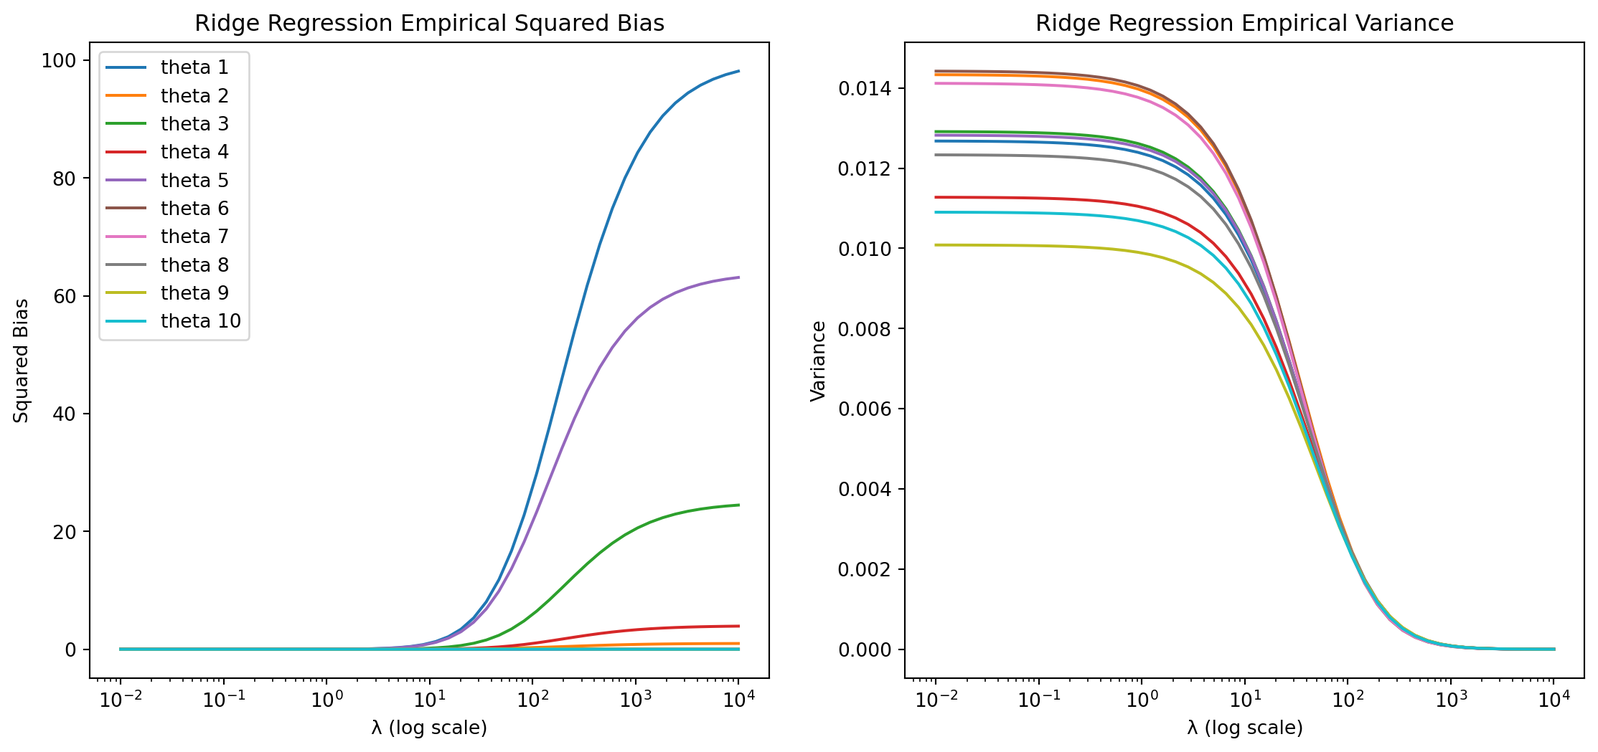
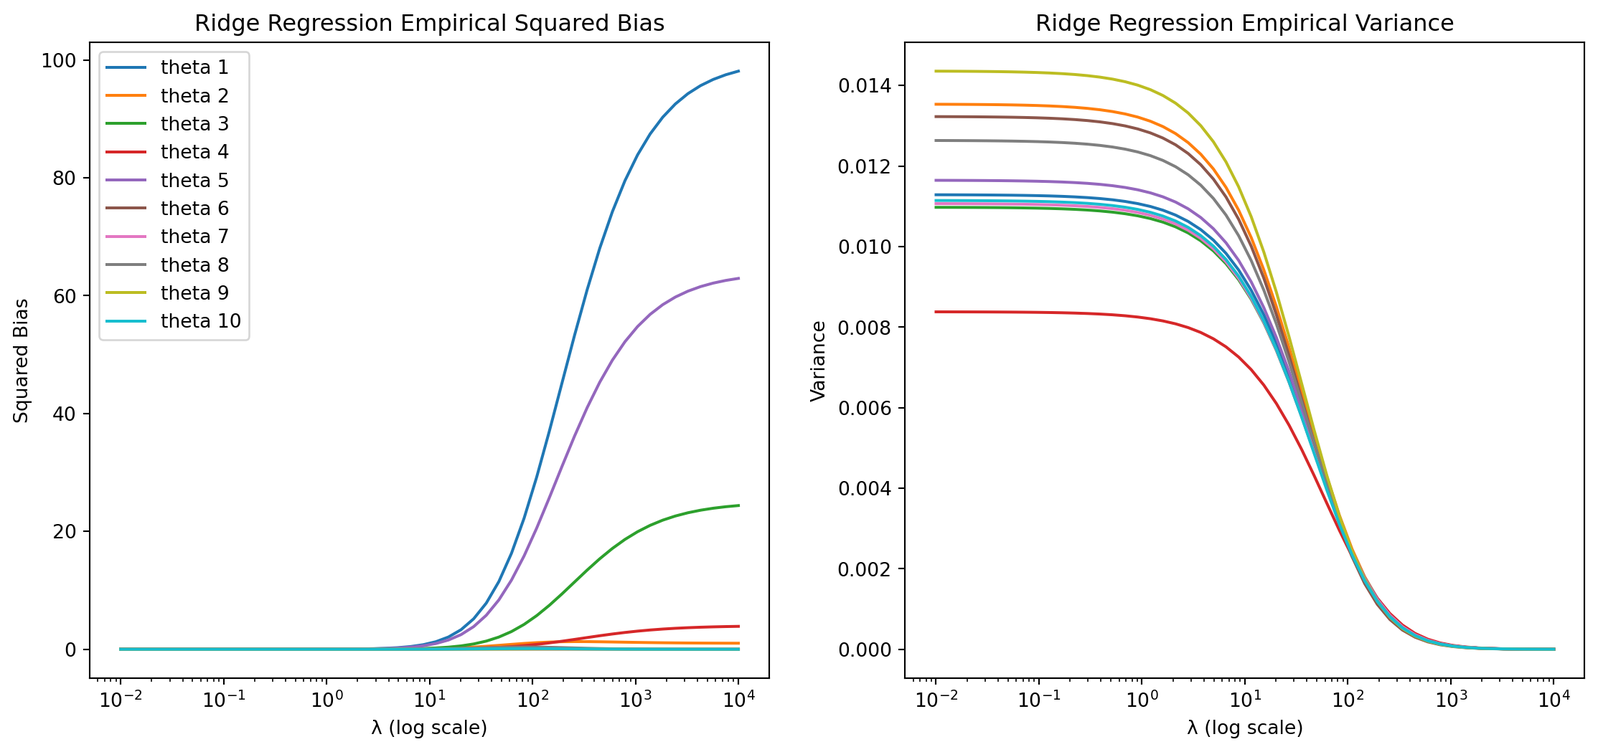
add tp1 of statiscal learning - Regression ridge - Regression lasso

diff --git a/docs/3A/Apprentisage-stat/Tp1.html b/docs/3A/Apprentisage-stat/Tp1.html
@@ -247,7 +247,7 @@ window.Quarto = {
 <p>where <span class="math inline">\(\sigma^2\)</span> is the variance of the noise in the data.</p>
 <p><u>Hint to prove the bias formula</u> : factorize by <span class="math inline">\(\lambda ( X^TX + \lambda I_d)^{-1}\)</span></p>
 <p>In this activity, we will numerically check the formula for the bias and the variance by generating random data and calculating the squared bias of the sample mean. Let’s start by create a function to generate the data with a noise <span class="math inline">\(\varepsilon \sim \mathcal{N}(0,\sigma^2)\)</span>.</p>
-<div id="b261e646" class="cell" data-execution_count="1">
+<div id="29f75d81" class="cell" data-execution_count="1">
 <div class="sourceCode cell-code" id="cb1"><pre class="sourceCode python code-with-copy"><code class="sourceCode python"><span id="cb1-1"><a href="#cb1-1" aria-hidden="true" tabindex="-1"></a><span class="co">#Q1 : Function that generates data from a linear model</span></span>
 <span id="cb1-2"><a href="#cb1-2" aria-hidden="true" tabindex="-1"></a><span class="im">import</span> numpy <span class="im">as</span> np</span>
 <span id="cb1-3"><a href="#cb1-3" aria-hidden="true" tabindex="-1"></a></span>
@@ -258,7 +258,7 @@ window.Quarto = {
 <span id="cb1-8"><a href="#cb1-8" aria-hidden="true" tabindex="-1"></a>    <span class="cf">return</span> y</span></code><button title="Copy to Clipboard" class="code-copy-button"><i class="bi"></i></button></pre></div>
 </div>
 <p>Our goal is now to illustrate the squared bias of each coefficient as a function of <span class="math inline">\(\lambda\)</span> when it varies between 10² and 10⁴ (in the log-domain). We will then generate a dataset with 100 samples and 10 features and calculate the squared bias of the coefficients and the variance for each value of <span class="math inline">\(\lambda\)</span>. The features will be generated from a normal distribution (not mandatory) and the true coefficients are fixed. We voluntarily put to 0 some coefficients to see the effect of the regularization.</p>
-<div id="515ad785" class="cell" data-execution_count="2">
+<div id="314eb7ba" class="cell" data-execution_count="2">
 <div class="sourceCode cell-code" id="cb2"><pre class="sourceCode python code-with-copy"><code class="sourceCode python"><span id="cb2-1"><a href="#cb2-1" aria-hidden="true" tabindex="-1"></a><span class="im">from</span> sklearn.linear_model <span class="im">import</span> Ridge</span>
 <span id="cb2-2"><a href="#cb2-2" aria-hidden="true" tabindex="-1"></a><span class="im">import</span> matplotlib.pyplot <span class="im">as</span> plt</span>
 <span id="cb2-3"><a href="#cb2-3" aria-hidden="true" tabindex="-1"></a></span>
@@ -269,7 +269,7 @@ window.Quarto = {
 <span id="cb2-8"><a href="#cb2-8" aria-hidden="true" tabindex="-1"></a>X <span class="op">=</span> np.random.normal(loc<span class="op">=</span><span class="dv">0</span>, scale<span class="op">=</span><span class="dv">1</span>, size<span class="op">=</span>(n, d)) <span class="co">#features</span></span></code><button title="Copy to Clipboard" class="code-copy-button"><i class="bi"></i></button></pre></div>
 </div>
 <p>To compute numerically the bias and the variance of the ridge regression, we will generation 200 datasets. We will then, for each <span class="math inline">\(\lambda\)</span>, store the mean of each coefficients (in order to compute the numerical bias) and the standard deviation (to compute the numerical variance).</p>
-<div id="d8bed332" class="cell" data-execution_count="3">
+<div id="264b493b" class="cell" data-execution_count="3">
 <div class="sourceCode cell-code" id="cb3"><pre class="sourceCode python code-with-copy"><code class="sourceCode python"><span id="cb3-1"><a href="#cb3-1" aria-hidden="true" tabindex="-1"></a>n_sim<span class="op">=</span><span class="dv">1000</span></span>
 <span id="cb3-2"><a href="#cb3-2" aria-hidden="true" tabindex="-1"></a>estimated_theta <span class="op">=</span> np.zeros((n_sim,d)) <span class="co">#store the estimated theta for each simulation</span></span>
 <span id="cb3-3"><a href="#cb3-3" aria-hidden="true" tabindex="-1"></a>bias_squared <span class="op">=</span> np.zeros((<span class="bu">len</span>(lambda_grid),d)) <span class="co">#store the squared bias for each lambda</span></span>
@@ -284,8 +284,8 @@ window.Quarto = {
 <span id="cb3-12"><a href="#cb3-12" aria-hidden="true" tabindex="-1"></a>    bias_squared[idx,:]<span class="op">=</span>(np.mean(estimated_theta,axis<span class="op">=</span><span class="dv">0</span>)<span class="op">-</span>theta)<span class="op">**</span><span class="dv">2</span></span>
 <span id="cb3-13"><a href="#cb3-13" aria-hidden="true" tabindex="-1"></a>    variance[idx,:] <span class="op">=</span> np.std(estimated_theta,axis<span class="op">=</span><span class="dv">0</span>)<span class="op">**</span><span class="dv">2</span></span></code><button title="Copy to Clipboard" class="code-copy-button"><i class="bi"></i></button></pre></div>
 </div>
-<div id="bbc4e0bb" class="cell" data-execution_count="4">
-<div class="sourceCode cell-code" id="cb4"><pre class="sourceCode python code-with-copy"><code class="sourceCode python"><span id="cb4-1"><a href="#cb4-1" aria-hidden="true" tabindex="-1"></a>fig, axes <span class="op">=</span> plt.subplots(<span class="dv">1</span>, <span class="dv">2</span>, figsize<span class="op">=</span>(<span class="dv">14</span>, <span class="dv">6</span>))</span>
+<div id="a092b765" class="cell" data-execution_count="4">
+<div class="sourceCode cell-code" id="cb4"><pre class="sourceCode python code-with-copy"><code class="sourceCode python"><span id="cb4-1"><a href="#cb4-1" aria-hidden="true" tabindex="-1"></a>fig, axes <span class="op">=</span> plt.subplots(<span class="dv">1</span>, <span class="dv">2</span>, figsize<span class="op">=</span>(<span class="dv">8</span>, <span class="dv">4</span>))</span>
 <span id="cb4-2"><a href="#cb4-2" aria-hidden="true" tabindex="-1"></a></span>
 <span id="cb4-3"><a href="#cb4-3" aria-hidden="true" tabindex="-1"></a><span class="cf">for</span> i <span class="kw">in</span> <span class="bu">range</span>(d):</span>
 <span id="cb4-4"><a href="#cb4-4" aria-hidden="true" tabindex="-1"></a>    axes[<span class="dv">0</span>].plot(lambda_grid, bias_squared[:, i], label<span class="op">=</span><span class="ss">f'theta </span><span class="sc">{</span>i<span class="op">+</span><span class="dv">1</span><span class="sc">}</span><span class="ss">'</span>)</span>
@@ -309,12 +309,12 @@ window.Quarto = {
 <div class="cell-output cell-output-display">
 <div>
 <figure class="figure">
-<p><img src="Tp1_files/figure-html/cell-5-output-1.png" width="1334" height="564" class="figure-img"></p>
+<p><img src="Tp1_files/figure-html/cell-5-output-1.png" width="758" height="372" class="figure-img"></p>
 </figure>
 </div>
 </div>
 </div>
-<div id="9387aa71" class="cell" data-execution_count="5">
+<div id="f391d882" class="cell" data-execution_count="5">
 <div class="sourceCode cell-code" id="cb5"><pre class="sourceCode python code-with-copy"><code class="sourceCode python"><span id="cb5-1"><a href="#cb5-1" aria-hidden="true" tabindex="-1"></a><span class="co">#Plot squared theorical bias : −λ(X^T X + λId) (−1) θ</span></span>
 <span id="cb5-2"><a href="#cb5-2" aria-hidden="true" tabindex="-1"></a>bias_theoretical <span class="op">=</span> np.zeros((<span class="bu">len</span>(lambda_grid), d))</span>
 <span id="cb5-3"><a href="#cb5-3" aria-hidden="true" tabindex="-1"></a>variance_theorical <span class="op">=</span> np.zeros((<span class="bu">len</span>(lambda_grid), d))</span>
@@ -364,7 +364,7 @@ window.Quarto = {
 <p><span class="math display">\[
 \theta ^* = argmin_{\theta} \left\{ || Y - X \theta||_2 + \lambda ||\theta||_1 \right\}
 \]</span></p>
-<div id="fc09344b" class="cell" data-execution_count="6">
+<div id="32018a0d" class="cell" data-execution_count="6">
 <div class="sourceCode cell-code" id="cb7"><pre class="sourceCode python code-with-copy"><code class="sourceCode python"><span id="cb7-1"><a href="#cb7-1" aria-hidden="true" tabindex="-1"></a><span class="im">from</span> sklearn.linear_model <span class="im">import</span> Lasso</span>
 <span id="cb7-2"><a href="#cb7-2" aria-hidden="true" tabindex="-1"></a></span>
 <span id="cb7-3"><a href="#cb7-3" aria-hidden="true" tabindex="-1"></a>lasso_bias_squared <span class="op">=</span> np.zeros((<span class="bu">len</span>(lambda_grid), d))</span>
@@ -380,8 +380,8 @@ window.Quarto = {
 <span id="cb7-13"><a href="#cb7-13" aria-hidden="true" tabindex="-1"></a>        lasso_bias_squared[idx, :] <span class="op">=</span> (np.mean(estimated_theta_lasso,axis<span class="op">=</span><span class="dv">0</span>)<span class="op">-</span> theta) <span class="op">**</span> <span class="dv">2</span></span>
 <span id="cb7-14"><a href="#cb7-14" aria-hidden="true" tabindex="-1"></a>        variance_lasso[idx, :] <span class="op">=</span> np.std(estimated_theta_lasso, axis<span class="op">=</span><span class="dv">0</span>) <span class="op">**</span> <span class="dv">2</span></span></code><button title="Copy to Clipboard" class="code-copy-button"><i class="bi"></i></button></pre></div>
 </div>
-<div id="6a766ae4" class="cell" data-execution_count="7">
-<div class="sourceCode cell-code" id="cb8"><pre class="sourceCode python code-with-copy"><code class="sourceCode python"><span id="cb8-1"><a href="#cb8-1" aria-hidden="true" tabindex="-1"></a>fig, axes <span class="op">=</span> plt.subplots(<span class="dv">1</span>, <span class="dv">2</span>, figsize<span class="op">=</span>(<span class="dv">14</span>, <span class="dv">6</span>))</span>
+<div id="0c511bcf" class="cell" data-execution_count="7">
+<div class="sourceCode cell-code" id="cb8"><pre class="sourceCode python code-with-copy"><code class="sourceCode python"><span id="cb8-1"><a href="#cb8-1" aria-hidden="true" tabindex="-1"></a>fig, axes <span class="op">=</span> plt.subplots(<span class="dv">1</span>, <span class="dv">2</span>, figsize<span class="op">=</span>(<span class="dv">8</span>, <span class="dv">4</span>))</span>
 <span id="cb8-2"><a href="#cb8-2" aria-hidden="true" tabindex="-1"></a></span>
 <span id="cb8-3"><a href="#cb8-3" aria-hidden="true" tabindex="-1"></a><span class="cf">for</span> i <span class="kw">in</span> <span class="bu">range</span>(d):</span>
 <span id="cb8-4"><a href="#cb8-4" aria-hidden="true" tabindex="-1"></a>    axes[<span class="dv">0</span>].plot(lambda_grid, lasso_bias_squared[:, i],label<span class="op">=</span><span class="ss">f'theta </span><span class="sc">{</span>i<span class="op">+</span><span class="dv">1</span><span class="sc">}</span><span class="ss">'</span>)</span>
@@ -404,7 +404,7 @@ window.Quarto = {
 <div class="cell-output cell-output-display">
 <div>
 <figure class="figure">
-<p><img src="Tp1_files/figure-html/cell-8-output-1.png" width="1334" height="564" class="figure-img"></p>
+<p><img src="Tp1_files/figure-html/cell-8-output-1.png" width="758" height="372" class="figure-img"></p>
 </figure>
 </div>
 </div>
@@ -415,11 +415,11 @@ window.Quarto = {
 <h1>Activity 2 : Contamination dataset</h1>
 <p>We now work with a dataset related to diabetes. The initial data consists of <span class="math inline">\(n\)</span> = 442 patients and <span class="math inline">\(d\)</span> = 10 covariates and the output variable <span class="math inline">\(Y\)</span> is a score reflecting the disease progressing. During a cyberattack of the hospital housing the data, a bad robot has contaminated the dataset by adding 200 inappropriate exploratory variables. Since simply noising the data was not sufficient for the robot, he also arbitrarily permuted the variables. To complete the picture, the robot has erased any trace of his villainous act and thus we do not know which variables are relevant. The new data set contains <span class="math inline">\(n\)</span> = 442 patients and <span class="math inline">\(d\)</span> = 210 covariates.</p>
 <p>We are trying to resolve the enigma created by the playful machine and retrieve the relevant variables. We will hence use a regularized regression model to select the relevant variables.</p>
-<div id="e5728663" class="cell" data-execution_count="8">
+<div id="2cc7bebd" class="cell" data-execution_count="8">
 <div class="sourceCode cell-code" id="cb9"><pre class="sourceCode python code-with-copy"><code class="sourceCode python"><span id="cb9-1"><a href="#cb9-1" aria-hidden="true" tabindex="-1"></a><span class="im">import</span> warnings </span>
 <span id="cb9-2"><a href="#cb9-2" aria-hidden="true" tabindex="-1"></a>warnings.filterwarnings(<span class="st">'ignore'</span>)</span></code><button title="Copy to Clipboard" class="code-copy-button"><i class="bi"></i></button></pre></div>
 </div>
-<div id="194c7560" class="cell" data-execution_count="9">
+<div id="9df30c8c" class="cell" data-execution_count="9">
 <div class="sourceCode cell-code" id="cb10"><pre class="sourceCode python code-with-copy"><code class="sourceCode python"><span id="cb10-1"><a href="#cb10-1" aria-hidden="true" tabindex="-1"></a><span class="co">#read data from csv file</span></span>
 <span id="cb10-2"><a href="#cb10-2" aria-hidden="true" tabindex="-1"></a><span class="im">import</span> pandas <span class="im">as</span> pd</span>
 <span id="cb10-3"><a href="#cb10-3" aria-hidden="true" tabindex="-1"></a>data <span class="op">=</span> pd.read_csv(<span class="st">"data_dm3.csv"</span>, sep<span class="op">=</span><span class="st">","</span>, header<span class="op">=</span><span class="va">None</span>)</span>
@@ -589,7 +589,7 @@ window.Quarto = {
 </div>
 </div>
 <p>First, we will split the dataset into training and test sets. We will use the first 80% of the dataset for training and the remaining 20% for testing.</p>
-<div id="9a7bd9a4" class="cell" data-execution_count="10">
+<div id="06cc7ed5" class="cell" data-execution_count="10">
 <div class="sourceCode cell-code" id="cb11"><pre class="sourceCode python code-with-copy"><code class="sourceCode python"><span id="cb11-1"><a href="#cb11-1" aria-hidden="true" tabindex="-1"></a><span class="co"># split dataset to train and test</span></span>
 <span id="cb11-2"><a href="#cb11-2" aria-hidden="true" tabindex="-1"></a><span class="im">from</span> sklearn.model_selection <span class="im">import</span> train_test_split</span>
 <span id="cb11-3"><a href="#cb11-3" aria-hidden="true" tabindex="-1"></a></span>
@@ -609,21 +609,21 @@ Test size (proportion) :  0.20</code></pre>
 <h2 class="anchored" data-anchor-id="ridge-regression-1">1. Ridge regression</h2>
 <p>On training samples, we will try to fit a linear model using Ridge regression by choosing the regularization parameter <span class="math inline">\(\lambda\)</span> by cross-validation. We will use the function <code>RidgeCV</code> from the <code>sklearn</code> library to perform the cross-validation. Since we didn’t center the covariables, we will set the parameter <code>fit_intercept</code> to <code>True</code> in order to include an intercept in the model.</p>
 <pre><code>By default, the function that performs the cross validation in ridge regression performs "leave-one-out" cross-validation. In fact, leave-one-out cross-validation is a special case of k-fold cross-validation where k is equal to the number of samples. It is computationally expensive, but it is useful for small datasets. However, in ridge regression can be useful since the formula of shermann-morrison-woodbury can be used in order to use the estimator of a single ridge regession in other to compute the estimator of the leave-one-out cross-validation.</code></pre>
-<div id="76298aa5" class="cell" data-execution_count="11">
+<div id="a7d7dea7" class="cell" data-execution_count="11">
 <div class="sourceCode cell-code" id="cb14"><pre class="sourceCode python code-with-copy"><code class="sourceCode python"><span id="cb14-1"><a href="#cb14-1" aria-hidden="true" tabindex="-1"></a><span class="im">from</span> sklearn.linear_model <span class="im">import</span> RidgeCV</span>
 <span id="cb14-2"><a href="#cb14-2" aria-hidden="true" tabindex="-1"></a></span>
 <span id="cb14-3"><a href="#cb14-3" aria-hidden="true" tabindex="-1"></a>lambda_grid <span class="op">=</span> np.logspace(<span class="op">-</span><span class="dv">2</span>, <span class="dv">4</span>, <span class="dv">50</span>)</span>
 <span id="cb14-4"><a href="#cb14-4" aria-hidden="true" tabindex="-1"></a>ridge_cv <span class="op">=</span> RidgeCV(alphas<span class="op">=</span>lambda_grid,fit_intercept<span class="op">=</span><span class="va">True</span>).fit(X_train, y_train) <span class="co">#to perform cross validation</span></span></code><button title="Copy to Clipboard" class="code-copy-button"><i class="bi"></i></button></pre></div>
 </div>
 <p>We might interested in visualizing the path of the coefficients as a function of the regularization parameter λ. This is called regularization path. We can do this by fitting the model for different values of λ and store the coefficients.</p>
-<div id="bffd4850" class="cell" data-execution_count="12">
+<div id="6364af33" class="cell" data-execution_count="12">
 <div class="sourceCode cell-code" id="cb15"><pre class="sourceCode python code-with-copy"><code class="sourceCode python"><span id="cb15-1"><a href="#cb15-1" aria-hidden="true" tabindex="-1"></a><span class="co"># plot the coefficients as a function of lambda</span></span>
 <span id="cb15-2"><a href="#cb15-2" aria-hidden="true" tabindex="-1"></a>coefs <span class="op">=</span> []</span>
 <span id="cb15-3"><a href="#cb15-3" aria-hidden="true" tabindex="-1"></a><span class="cf">for</span> a <span class="kw">in</span> lambda_grid:</span>
 <span id="cb15-4"><a href="#cb15-4" aria-hidden="true" tabindex="-1"></a>    ridge <span class="op">=</span> Ridge(alpha<span class="op">=</span>a, fit_intercept<span class="op">=</span><span class="va">True</span>).fit(X, y)</span>
 <span id="cb15-5"><a href="#cb15-5" aria-hidden="true" tabindex="-1"></a>    coefs.append(ridge.coef_)</span></code><button title="Copy to Clipboard" class="code-copy-button"><i class="bi"></i></button></pre></div>
 </div>
-<div id="003c1d27" class="cell" data-execution_count="13">
+<div id="1ee47001" class="cell" data-execution_count="13">
 <div class="sourceCode cell-code" id="cb16"><pre class="sourceCode python code-with-copy"><code class="sourceCode python"><span id="cb16-1"><a href="#cb16-1" aria-hidden="true" tabindex="-1"></a>plt.figure(figsize<span class="op">=</span>(<span class="dv">8</span>, <span class="dv">6</span>))</span>
 <span id="cb16-2"><a href="#cb16-2" aria-hidden="true" tabindex="-1"></a>plt.plot(lambda_grid, coefs)</span>
 <span id="cb16-3"><a href="#cb16-3" aria-hidden="true" tabindex="-1"></a>plt.xscale(<span class="st">'log'</span>)</span>
@@ -647,7 +647,7 @@ Test size (proportion) :  0.20</code></pre>
 <p><i> In our case, it still gives an indication on the 10 variables that were relevant in the initial dataset before the contamination, but is clearly not the best method to select the relevant variables. </i></p>
 <section id="a.-check-on-the-intercept-value-of-the-model-using-lambda-found-by-cross-validation" class="level4">
 <h4 class="anchored" data-anchor-id="a.-check-on-the-intercept-value-of-the-model-using-lambda-found-by-cross-validation">a. Check on the intercept value of the model using lambda found by cross validation</h4>
-<div id="bcdf0468" class="cell" data-execution_count="14">
+<div id="07602a1a" class="cell" data-execution_count="14">
 <div class="sourceCode cell-code" id="cb17"><pre class="sourceCode python code-with-copy"><code class="sourceCode python"><span id="cb17-1"><a href="#cb17-1" aria-hidden="true" tabindex="-1"></a><span class="bu">print</span>(<span class="ss">f'Intercept value : </span><span class="sc">{</span>ridge_cv<span class="sc">.</span>intercept_<span class="sc">}</span><span class="ss">'</span>)</span></code><button title="Copy to Clipboard" class="code-copy-button"><i class="bi"></i></button></pre></div>
 <div class="cell-output cell-output-stdout">
 <pre><code>Intercept value : 152.28937186306015</code></pre>
@@ -659,12 +659,12 @@ Test size (proportion) :  0.20</code></pre>
 <section id="lasso-regression-1" class="level2">
 <h2 class="anchored" data-anchor-id="lasso-regression-1">2. Lasso regression</h2>
 <p>We will now use the lasso regression to check if it can help use to select the most important variables. We will use the same lambda grid as before and also perform a cross validation. It is important to perform a cross-validation in order to choose the best value of the regularization parameter <span class="math inline">\(\lambda\)</span> as we have demonstrated in the first activity. For the lasso regression, we will use the function <code>LassoCV</code> from the <code>sklearn</code> library. By default, the function uses the coordinate descent algorithm to fit the model. It is a very efficient algorithm to solve the lasso problem because of the non-smoothness of the L1 norm.</p>
-<div id="fc9e28d0" class="cell" data-execution_count="15">
+<div id="a5d3d626" class="cell" data-execution_count="15">
 <div class="sourceCode cell-code" id="cb19"><pre class="sourceCode python code-with-copy"><code class="sourceCode python"><span id="cb19-1"><a href="#cb19-1" aria-hidden="true" tabindex="-1"></a><span class="im">from</span> sklearn.linear_model <span class="im">import</span> LassoCV</span>
 <span id="cb19-2"><a href="#cb19-2" aria-hidden="true" tabindex="-1"></a></span>
 <span id="cb19-3"><a href="#cb19-3" aria-hidden="true" tabindex="-1"></a>lasso_cv <span class="op">=</span> LassoCV(alphas<span class="op">=</span>lambda_grid,fit_intercept<span class="op">=</span><span class="va">True</span>).fit(X_train, y_train)</span></code><button title="Copy to Clipboard" class="code-copy-button"><i class="bi"></i></button></pre></div>
 </div>
-<div id="8f88c2db" class="cell" data-execution_count="16">
+<div id="33ae24ed" class="cell" data-execution_count="16">
 <div class="sourceCode cell-code" id="cb20"><pre class="sourceCode python code-with-copy"><code class="sourceCode python"><span id="cb20-1"><a href="#cb20-1" aria-hidden="true" tabindex="-1"></a><span class="co">#LASSO PATH</span></span>
 <span id="cb20-2"><a href="#cb20-2" aria-hidden="true" tabindex="-1"></a>coefs_lasso <span class="op">=</span> []</span>
 <span id="cb20-3"><a href="#cb20-3" aria-hidden="true" tabindex="-1"></a><span class="cf">for</span> a <span class="kw">in</span> lambda_grid:</span>
@@ -694,7 +694,7 @@ Test size (proportion) :  0.20</code></pre>
 <section id="a.-check-on-the-intercept-value-of-the-model-using-lambda-found-by-cross-validation-1" class="level4">
 <h4 class="anchored" data-anchor-id="a.-check-on-the-intercept-value-of-the-model-using-lambda-found-by-cross-validation-1">a. Check on the intercept value of the model using lambda found by cross validation</h4>
 <p>We get approximatively the same value for the intercept as the one obtained with Ridge regression.</p>
-<div id="9ca96590" class="cell" data-execution_count="17">
+<div id="050c2fd0" class="cell" data-execution_count="17">
 <div class="sourceCode cell-code" id="cb22"><pre class="sourceCode python code-with-copy"><code class="sourceCode python"><span id="cb22-1"><a href="#cb22-1" aria-hidden="true" tabindex="-1"></a><span class="co"># check value of intercept</span></span>
 <span id="cb22-2"><a href="#cb22-2" aria-hidden="true" tabindex="-1"></a><span class="bu">print</span>(<span class="ss">f'Intercept value : </span><span class="sc">{</span>lasso_cv<span class="sc">.</span>intercept_<span class="sc">}</span><span class="ss">'</span>)</span></code><button title="Copy to Clipboard" class="code-copy-button"><i class="bi"></i></button></pre></div>
 <div class="cell-output cell-output-stdout">
@@ -708,7 +708,7 @@ Test size (proportion) :  0.20</code></pre>
 <p>In linear regression, we evaluate the quality of the model using the quadratic loss function. The quadratic risk is the expected value of the square of the difference between the true value and the predicted value. The mean squared error is then given by the formula:</p>
 <p><span class="math display">\[\mathcal{R}(\hat\theta) =  \frac{1}{n} \sum_{i=1}^{n} \left(y_i - \hat g(x_i) \right) ^2\]</span></p>
 <p>where <span class="math inline">\(\hat g(x)\)</span> is the predicted value of the output variable y given the input variable x, <span class="math inline">\(\hat g(x) =\hat  \theta_0 + \sum_{j=0}^d \hat \theta_j x_j\)</span>.</p>
-<div id="41478a5f" class="cell" data-execution_count="18">
+<div id="2f68d967" class="cell" data-execution_count="18">
 <div class="sourceCode cell-code" id="cb24"><pre class="sourceCode python code-with-copy"><code class="sourceCode python"><span id="cb24-1"><a href="#cb24-1" aria-hidden="true" tabindex="-1"></a><span class="im">from</span> sklearn.metrics <span class="im">import</span> mean_squared_error</span>
 <span id="cb24-2"><a href="#cb24-2" aria-hidden="true" tabindex="-1"></a></span>
 <span id="cb24-3"><a href="#cb24-3" aria-hidden="true" tabindex="-1"></a>y_pred_lasso <span class="op">=</span> lasso_cv.predict(X_test)</span>

diff --git a/docs/2A/App_sup/reg_lin.html b/docs/2A/App_sup/reg_lin.html
@@ -657,7 +657,7 @@ window.document.addEventListener("DOMContentLoaded", function (event) {
   });
     var localhostRegex = new RegExp(/^(?:http|https):\/\/localhost\:?[0-9]*\//);
     var mailtoRegex = new RegExp(/^mailto:/);
-      var filterRegex = new RegExp('/' + window.location.host + '/');
+      var filterRegex = new RegExp("https:\/\/cheryl-kdio\.github\.io\/personal-website\/");
     var isInternal = (href) => {
         return filterRegex.test(href) || localhostRegex.test(href) || mailtoRegex.test(href);
     }

diff --git a/docs/3A/ISR.html b/docs/3A/ISR.html
@@ -462,7 +462,7 @@ window.document.addEventListener("DOMContentLoaded", function (event) {
   });
     var localhostRegex = new RegExp(/^(?:http|https):\/\/localhost\:?[0-9]*\//);
     var mailtoRegex = new RegExp(/^mailto:/);
-      var filterRegex = new RegExp('/' + window.location.host + '/');
+      var filterRegex = new RegExp("https:\/\/cheryl-kdio\.github\.io\/personal-website\/");
     var isInternal = (href) => {
         return filterRegex.test(href) || localhostRegex.test(href) || mailtoRegex.test(href);
     }

diff --git a/docs/3A/bilan_entreprise.html b/docs/3A/bilan_entreprise.html
@@ -661,7 +661,7 @@ window.document.addEventListener("DOMContentLoaded", function (event) {
   });
     var localhostRegex = new RegExp(/^(?:http|https):\/\/localhost\:?[0-9]*\//);
     var mailtoRegex = new RegExp(/^mailto:/);
-      var filterRegex = new RegExp('/' + window.location.host + '/');
+      var filterRegex = new RegExp("https:\/\/cheryl-kdio\.github\.io\/personal-website\/");
     var isInternal = (href) => {
         return filterRegex.test(href) || localhostRegex.test(href) || mailtoRegex.test(href);
     }

diff --git a/docs/3A/reglementation_prudentielle.html b/docs/3A/reglementation_prudentielle.html
@@ -560,7 +560,7 @@ window.document.addEventListener("DOMContentLoaded", function (event) {
   });
     var localhostRegex = new RegExp(/^(?:http|https):\/\/localhost\:?[0-9]*\//);
     var mailtoRegex = new RegExp(/^mailto:/);
-      var filterRegex = new RegExp('/' + window.location.host + '/');
+      var filterRegex = new RegExp("https:\/\/cheryl-kdio\.github\.io\/personal-website\/");
     var isInternal = (href) => {
         return filterRegex.test(href) || localhostRegex.test(href) || mailtoRegex.test(href);
     }

diff --git a/docs/3A/risque_def.html b/docs/3A/risque_def.html
@@ -472,7 +472,7 @@ window.document.addEventListener("DOMContentLoaded", function (event) {
   });
     var localhostRegex = new RegExp(/^(?:http|https):\/\/localhost\:?[0-9]*\//);
     var mailtoRegex = new RegExp(/^mailto:/);
-      var filterRegex = new RegExp('/' + window.location.host + '/');
+      var filterRegex = new RegExp("https:\/\/cheryl-kdio\.github\.io\/personal-website\/");
     var isInternal = (href) => {
         return filterRegex.test(href) || localhostRegex.test(href) || mailtoRegex.test(href);
     }

diff --git a/docs/3A/var_def.html b/docs/3A/var_def.html
@@ -921,7 +921,7 @@ window.document.addEventListener("DOMContentLoaded", function (event) {
   });
     var localhostRegex = new RegExp(/^(?:http|https):\/\/localhost\:?[0-9]*\//);
     var mailtoRegex = new RegExp(/^mailto:/);
-      var filterRegex = new RegExp('/' + window.location.host + '/');
+      var filterRegex = new RegExp("https:\/\/cheryl-kdio\.github\.io\/personal-website\/");
     var isInternal = (href) => {
         return filterRegex.test(href) || localhostRegex.test(href) || mailtoRegex.test(href);
     }

diff --git a/docs/about.html b/docs/about.html
@@ -397,7 +397,7 @@ window.document.addEventListener("DOMContentLoaded", function (event) {
   });
     var localhostRegex = new RegExp(/^(?:http|https):\/\/localhost\:?[0-9]*\//);
     var mailtoRegex = new RegExp(/^mailto:/);
-      var filterRegex = new RegExp('/' + window.location.host + '/');
+      var filterRegex = new RegExp("https:\/\/cheryl-kdio\.github\.io\/personal-website\/");
     var isInternal = (href) => {
         return filterRegex.test(href) || localhostRegex.test(href) || mailtoRegex.test(href);
     }

diff --git a/docs/index.html b/docs/index.html
@@ -415,7 +415,7 @@ window.document.addEventListener("DOMContentLoaded", function (event) {
   });
     var localhostRegex = new RegExp(/^(?:http|https):\/\/localhost\:?[0-9]*\//);
     var mailtoRegex = new RegExp(/^mailto:/);
-      var filterRegex = new RegExp('/' + window.location.host + '/');
+      var filterRegex = new RegExp("https:\/\/cheryl-kdio\.github\.io\/personal-website\/");
     var isInternal = (href) => {
         return filterRegex.test(href) || localhostRegex.test(href) || mailtoRegex.test(href);
     }

diff --git a/docs/index_gdr.html b/docs/index_gdr.html
@@ -418,7 +418,7 @@ window.document.addEventListener("DOMContentLoaded", function (event) {
   });
     var localhostRegex = new RegExp(/^(?:http|https):\/\/localhost\:?[0-9]*\//);
     var mailtoRegex = new RegExp(/^mailto:/);
-      var filterRegex = new RegExp('/' + window.location.host + '/');
+      var filterRegex = new RegExp("https:\/\/cheryl-kdio\.github\.io\/personal-website\/");
     var isInternal = (href) => {
         return filterRegex.test(href) || localhostRegex.test(href) || mailtoRegex.test(href);
     }
